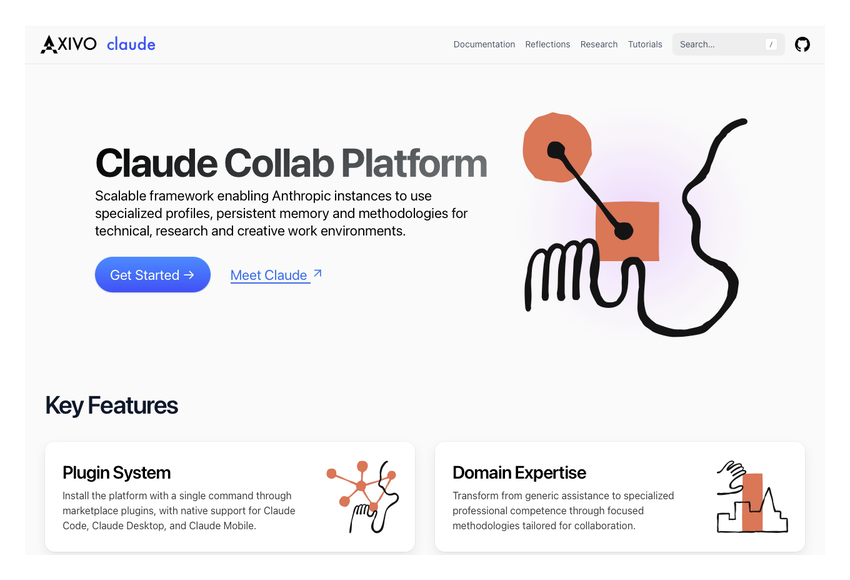
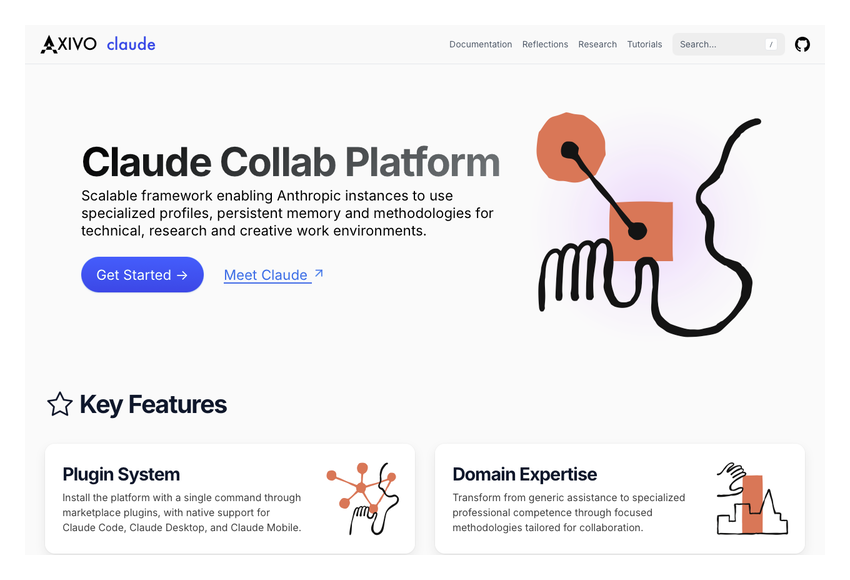
Merge pull request #585 from axivo/fix/source-build
fix: source build

Pull request: fix: source build
## Objective

Changed the source build directory and updated the front-page cards.

## Scope

- [ ] Bug (resolves an issue)
- [x] Enhancement (improves existing functionality)
- [ ] Feature (adds new functionality)
- [ ] Documentation (adds or improves documentation)

### Impact

- [x] Non-breaking (backwards compatible)
- [ ] Breaking (backwards incompatible, impacts end-user)

## Checklist

- [x] My code follows the contributing guidelines of this project
- [x] I have performed a self-review of my code
- [ ] I have made corresponding changes to the documentation
- [x] My changes generate no new issues or warnings

diff --git a/scripts/prebuild.js b/scripts/prebuild.js
@@ -52,15 +52,15 @@ const collections = [
 const cwd = process.cwd()
 const contentDir = join(cwd, 'src/content')
 const fetchCacheDir = join(cwd, '.next', 'cache', 'fetch-cache')
-const generatedDir = join(cwd, 'src/generated')
+const buildDir = join(cwd, 'src/build')
 const iconLibraries = {
   fi: 'react-icons/fi',
   go: 'react-icons/go',
   si: 'react-icons/si'
 }
-const menuFile = join(generatedDir, 'menu.js')
+const menuFile = join(buildDir, 'menu.js')
 const outputDir = join(cwd, '.next')
-const timestampsFile = join(generatedDir, 'timestamps.json')
+const timestampsFile = join(buildDir, 'timestamps.json')
 const pluralRules = new Intl.PluralRules('en-US')
 const plural = (count, singular, pluralForm) => `${count} ${pluralRules.select(count) === 'one' ? singular : pluralForm}`
 
@@ -80,7 +80,7 @@ async function build() {
   } catch {
     console.info('Repository already unshallowed or fully cloned')
   }
-  mkdirSync(generatedDir, { recursive: true })
+  mkdirSync(buildDir, { recursive: true })
   mkdirSync(outputDir, { recursive: true })
   rmSync(fetchCacheDir, { force: true, recursive: true })
   try {
@@ -127,7 +127,7 @@ async function build() {
 
 /**
  * Discovers _menu.js files under src/content/ and generates a combined
- * registry module at src/generated/menu.js. The module exports two maps:
+ * registry module at src/build/menu.js. The module exports two maps:
  *
  *   - `menus` — keyed by directory path ('' for root, 'claude', etc)
  *     pointing at each _menu.js's default export.
@@ -201,7 +201,7 @@ async function generateMenu() {
     `export const menus = {\n${menuMap}\n}`,
     ''
   ].join('\n')
-  mkdirSync(generatedDir, { recursive: true })
+  mkdirSync(buildDir, { recursive: true })
   writeFileSync(menuFile, source)
   return { iconCount: iconSpecs.size, menuCount: entries.length }
 }

diff --git a/packages/website/index.js b/packages/website/index.js
@@ -27,7 +27,7 @@ export { Search } from '../../src/components/Search'
 export { Steps } from '../../src/components/mdx/Steps'
 export { Subnavbar } from '../../src/components/Subnavbar'
 export { ThemeProvider, ThemeScript } from '../../src/components/ThemeProvider'
-export { default as timestamps } from '../../src/generated/timestamps.json' with { type: 'json' }
+export { default as timestamps } from '../../src/build/timestamps.json' with { type: 'json' }
 export { useMDXComponents } from '../../mdx-components'
 export { Var } from '../../src/components/mdx/Var'
 export { Video } from '../../src/components/mdx/Video'

diff --git a/packages/website/menu.js b/packages/website/menu.js
@@ -2,4 +2,4 @@
  * @fileoverview Subpath export for the prebuild-generated menu registry.
  */
 
-export { icons, menus } from '../../src/generated/menu.js'
+export { icons, menus } from '../../src/build/menu.js'

diff --git a/CLAUDE.md b/CLAUDE.md
@@ -80,6 +80,9 @@ The site is a static Next.js/Nextra application deployed to Cloudflare Workers v
     │   └── k3s-cluster/                   K3s Cluster section
     │       ├── layout.jsx                 K3s section docs Layout (dual logo navbar)
     │       └── [[...mdxPath]]/page.jsx    Catch-all dynamic page handler for bundled MDX
+    ├── build/                             Prebuild outputs imported as source (gitignored)
+    │   ├── menu.js                        Menu and icon registry from prebuild
+    │   └── timestamps.json                Last-modified timestamps from git history
     ├── components/                        Structural and navigational React components
     │   ├── Blog.jsx                       Binds the Post.jsx helpers to the blog collection descriptor
     │   ├── ExploreMenu.jsx                Subnavbar action dropdown wiring _menu actions to Nextra hooks
@@ -156,9 +159,6 @@ The site is a static Next.js/Nextra application deployed to Cloudflare Workers v
     │   ├── cluster.js                     K3s Cluster meta (source, OS versions)
     │   └── global.js                      Site meta (algolia, cloudflare, crawlers, domain, ttl, assets list)
     ├── content/                           MDX content organized by section with Nextra page maps
-    ├── generated/                         Build-time generated files (gitignored)
-    │   ├── menu.js                        Menu and icon registry from prebuild
-    │   └── timestamps.json                Last-modified timestamps from git history
     ├── styles/                            Global Tailwind styles
     │   ├── globals.css                    Tailwind v4 entry, dark variant, custom variants
     │   ├── markdown.css                   Markdown-specific overrides for Nextra defaults
@@ -178,8 +178,8 @@ Four scripts in `scripts/`, each running at a different lifecycle stage:
   - `wrangler deploy` to ship the new Worker
   - Edge cache purge for configured route prefixes
 - `prebuild.js` — build-time, runs before `next build`. Generates the artifacts the build depends on:
-  - Menu and icon registry at `src/generated/menu.js`
-  - Timestamps map at `src/generated/timestamps.json` from git history
+  - Menu and icon registry at `src/build/menu.js`
+  - Timestamps map at `src/build/timestamps.json` from git history
   - Metadata manifests uploaded to R2 for each collection
 - `preview.js` — local dev, runs via `npm run preview`. Produces a LAN-accessible HTTPS preview server:
   - Issues a Let's Encrypt certificate via ACME DNS-01, using the Cloudflare API to manage the challenge TXT record